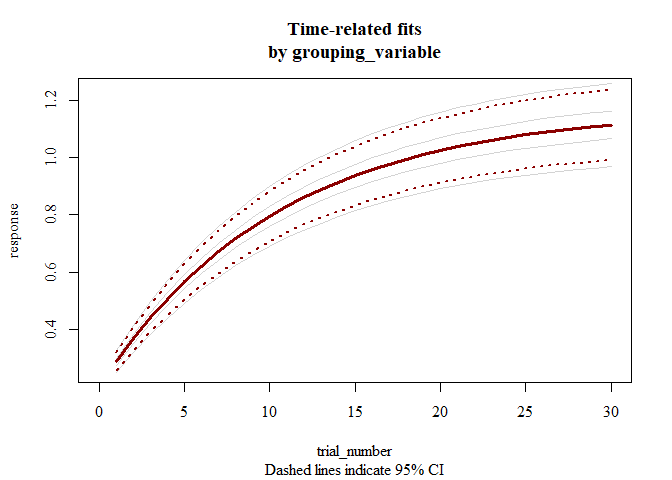
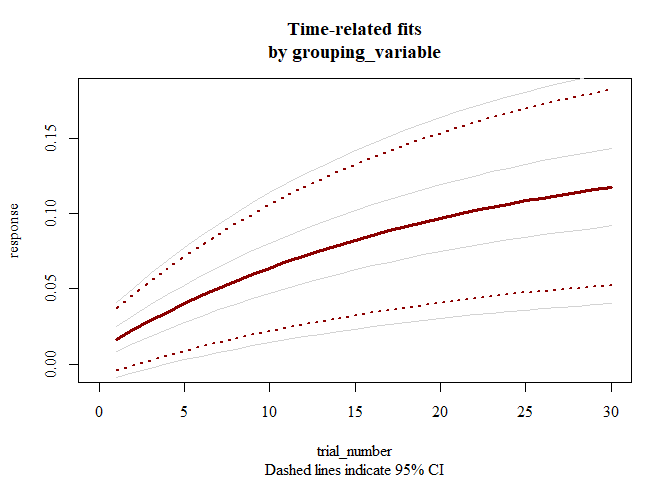
update README

diff --git a/README.md b/README.md
@@ -28,11 +28,11 @@ summary(mod)
     ##        Estimate
     ## pAsym     3.522
     ## pStart    0.869
-    ## pRate     2.866
+    ## pRate     2.867
     ## 
     ## >> Goodness-of-fit:
     ##            err nullErr nPars nObs     Fval Pval  Rsquared       BIC   nullBIC
-    ## ols 0.09355702 15.2815     3   30 2191.575    0 0.9938778 -162.9079 -16.83544
+    ## ols 0.09355704 15.2815     3   30 2191.574    0 0.9938778 -162.9078 -16.83544
     ##      deltaBIC
     ## ols -146.0724
     ## 
@@ -70,12 +70,12 @@ summary(mod)
     ## >> Fit Values:
     ##        Estimate  Q025  Q975 pseudoSE
     ## pAsym     1.000 1.000 1.000    0.000
-    ## pRate     2.740 2.658 2.841    0.047
-    ## pStart    0.231 0.209 0.278    0.018
+    ## pRate     2.739 2.684 2.832    0.038
+    ## pStart    0.231 0.209 0.260    0.013
     ## 
     ## >> Goodness-of-fit:
     ##                err  nullErr nPars nObs      BIC  nullBIC    deltaBIC
-    ## bernoulli 13.42284 16.83409     3   30 37.04928 37.06937 -0.02009175
+    ## bernoulli 13.42284 16.83409     3   30 37.04928 37.06937 -0.02009108
     ## 
     ## >> Test of change in nonindependence:
     ##                                                    rawSpearman
@@ -92,22 +92,25 @@ summary(mod)
     ## >> Timepoint at which resampled estimates diverge from timepoint 1, with Cohen's d>1: 2 
     ## 
     ## >> Bootstrapped parameter correlations:
-    ##         pAsym pStart pRate    err
-    ## pAsym   1.000 -0.115 0.087 -0.474
-    ## pStart -0.115  1.000 0.884  0.433
-    ## pRate   0.087  0.884 1.000  0.447
-    ## err    -0.474  0.433 0.447  1.000
+    ##         pAsym pStart  pRate    err
+    ## pAsym   1.000 -0.176 -0.245 -0.077
+    ## pStart -0.176  1.000  0.840  0.504
+    ## pRate  -0.245  0.840  1.000  0.562
+    ## err    -0.077  0.504  0.562  1.000
 
 An example of fitting a given model to subsets of data (e.g., individual participants within a behavioral study).
 
 ``` r
-dat <- data.frame(response=c(dat$response,dat$response*1.1,dat$response*1.2,dat$response*1.3),trial_number=rep(1:30,4),group=rep(letters[1:4],each=30))
+dat <- data.frame(response=rep(dat$response,4)*seq(0,.2,length=120),trial_number=rep(1:30,4),group=rep(letters[1:4],each=30))
 
 mod <- TEfitAll(dat[,c('response','trial_number')], 
              groupingVar = dat$group)
 ```
 
-    ## . . . .
+    ## 
+    ## Your rate is very close to the boundary. Consider penalizing the likelihood.. 
+    ## Your rate is very close to the boundary. Consider penalizing the likelihood.. 
+    ## Your rate is very close to the boundary. Consider penalizing the likelihood.. .
 
 ``` r
 plot(mod)
@@ -123,16 +126,16 @@ summary(mod)
     ## >> Call: response ~ (pAsym) + ((pStart) - (pAsym)) * 2^((1 - trial_number)/(2^(pRate)))
     ## 
     ## >> Overall effects:
-    ##             pAsym     pStart        pRate
-    ## mean   1.16873035 0.28830871 2.866463e+00
-    ## stdErr 0.06559772 0.01618762 4.534049e-05
+    ##             pAsym     pStart      pRate
+    ## mean   0.14922125 0.01638942 3.83358311
+    ## stdErr 0.03932946 0.01060345 0.02439782
     ## 
-    ##                err   nullErr nPars nObs         Fval Pval     Rsquared
-    ## mean   0.010398404 1.6984638     3   30 2.191575e+03    0 9.938778e-01
-    ## stdErr 0.001157272 0.1890277     0    0 2.613288e-04    0 7.255617e-10
-    ##                BIC    nullBIC      deltaBIC  linkFun errFun changeFun converged
-    ## mean   -229.383415 -83.310998 -1.460724e+02 identity    ols      expo         1
-    ## stdErr    3.387974   3.387976  3.555373e-06 identity    ols      expo         0
+    ##                 err    nullErr nPars nObs      Fval         Pval   Rsquared
+    ## mean   3.005043e-04 0.03071614     3   30 1692.5911 1.110223e-16 0.97598961
+    ## stdErr 6.864637e-05 0.01187769     0    0  653.4833 1.110223e-16 0.01661145
+    ##                BIC    nullBIC   deltaBIC  linkFun errFun changeFun converged
+    ## mean   -337.338939 -211.91820 -125.42074 identity    ols      expo         1
+    ## stdErr    6.548342   14.35328   19.26151 identity    ols      expo         0
     ##        pValSpearmanChange
     ## mean                    0
     ## stdErr                  0
@@ -143,6 +146,6 @@ summary(mod)
     ## >> Parameter Pearson product-moment correlations:
 
     ##         pAsym pStart  pRate
-    ## pAsym   1.000  1.000 -0.258
-    ## pStart  1.000  1.000 -0.258
-    ## pRate  -0.258 -0.258  1.000
+    ## pAsym   1.000  1.000 -0.757
+    ## pStart  1.000  1.000 -0.763
+    ## pRate  -0.757 -0.763  1.000
